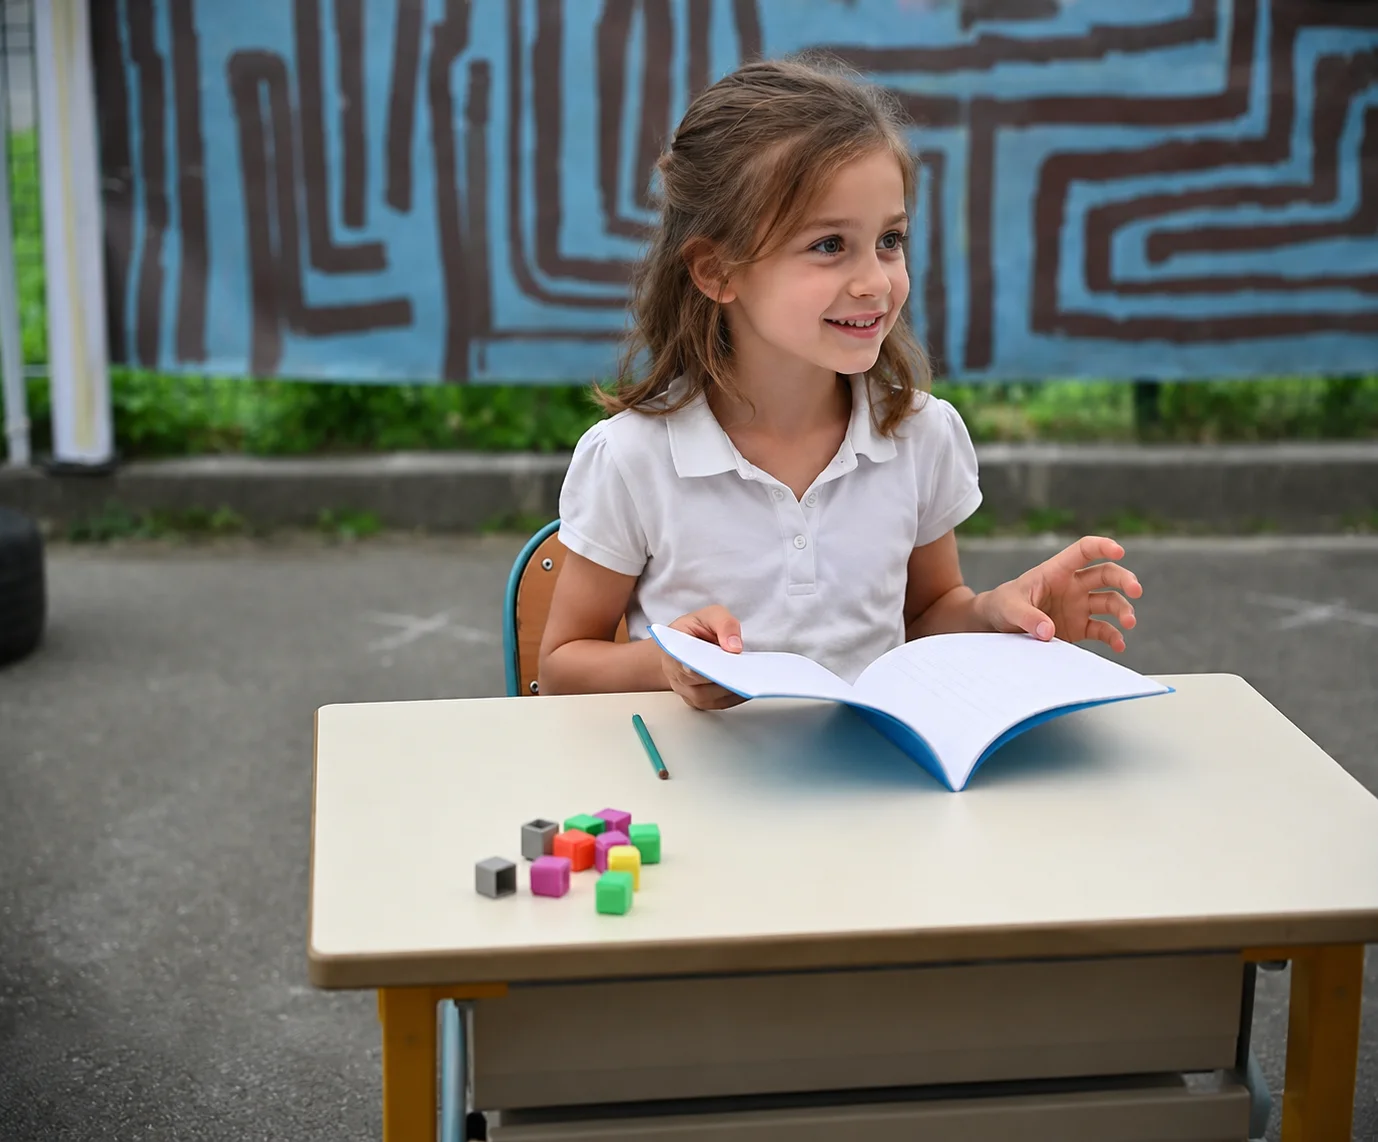
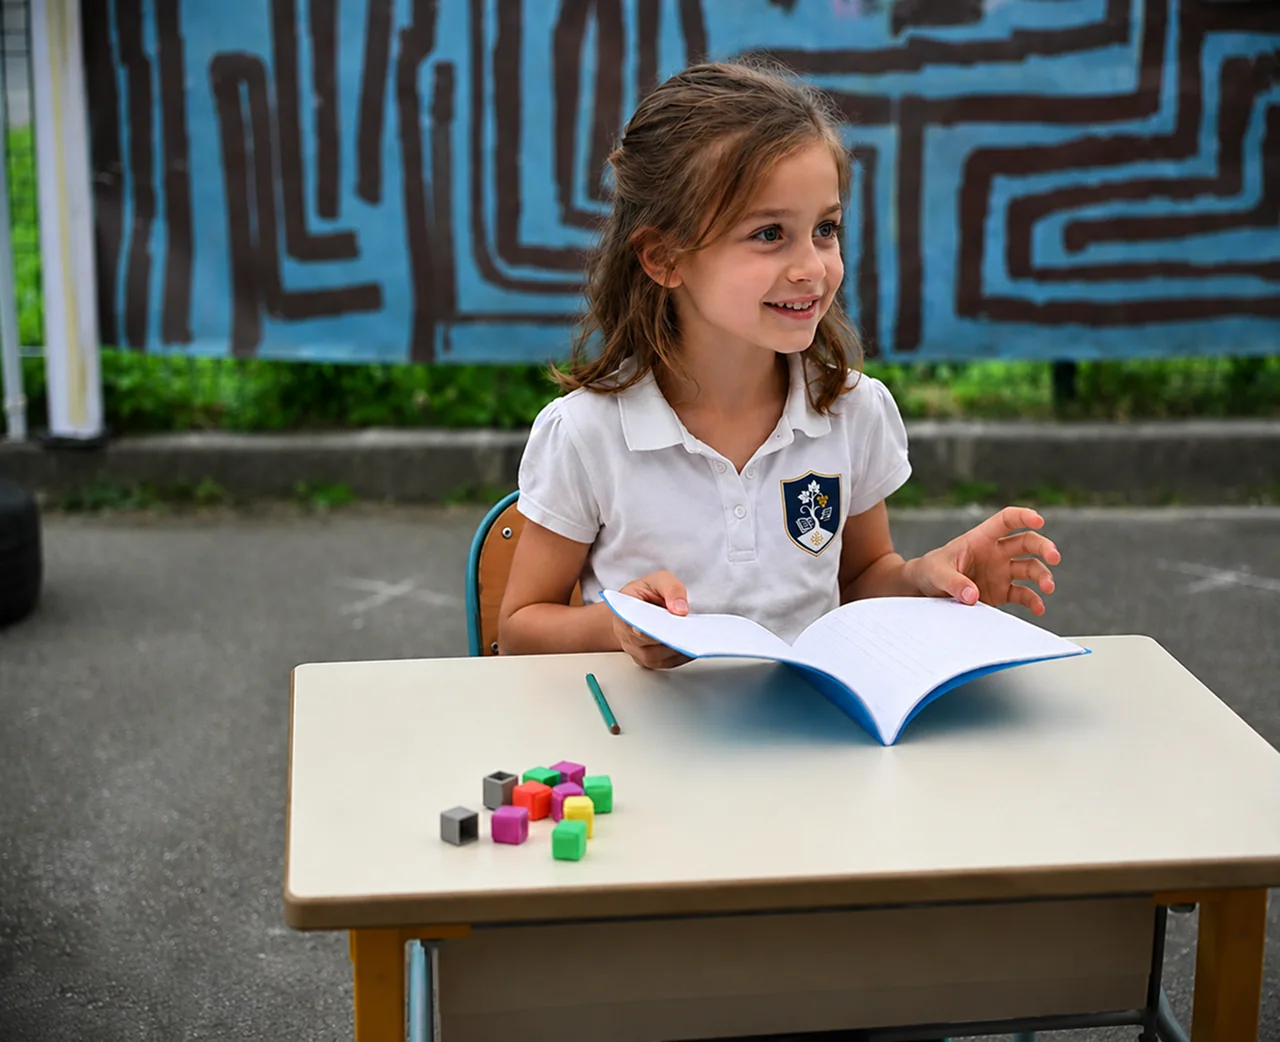
fix: update text and image after client review

diff --git a/src/app/contact/page.tsx b/src/app/contact/page.tsx
@@ -1,4 +1,3 @@
-// src/app/contact/page.tsx
 import { FaBus, FaTrain, FaCar, FaSquareParking } from "react-icons/fa6";
 import SarmentsText from "@/components/ui/sarmentsText/SarmentsText";
 import Separator from "@/components/ui/separator/Separator";
@@ -10,8 +9,13 @@ export default function ContactPage() {
     <section className="contact">
       <div className="contact_location">
         <SarmentsText format="title" className="contact_title">
-          Où nous trouver
+          Où nous trouver ?
         </SarmentsText>
+        <SarmentsText format="text" className="contact_intro">
+          Située au 20 avenue Didier Daurat dans le quartier de Montaudran à Toulouse, l&apos;école
+          Les Sarments est facilement accessible en transports et en voiture.
+        </SarmentsText>
+
         <div className="contact_location_content">
           <ul className="contact_access">
             <li className="contact_access_item">

diff --git a/src/components/layout/teaching-life/school/schoolUtils.ts b/src/components/layout/teaching-life/school/schoolUtils.ts
@@ -18,7 +18,7 @@ export const schoolTimelineMorning: TimelineProps = {
     {
       id: "3",
       time: "9h30 – 10h",
-      description: "Écriture, grammaire & conjugaison",
+      description: "Écriture, grammaire ou conjugaison",
       side: "left",
     },
     {
@@ -48,7 +48,7 @@ export const schoolTimelineAfternoon: TimelineProps = {
     {
       id: "2",
       time: "13h30 – 14h30",
-      description: "Ateliers, phonologie, sciences, histoire",
+      description: "Ateliers, phonologie, sciences ou histoire",
       badges: [{ label: "CP" }],
       side: "left",
     },

diff --git a/src/components/layout/teaching-life/pre-school/preSchoolUtils.ts b/src/components/layout/teaching-life/pre-school/preSchoolUtils.ts
@@ -36,7 +36,7 @@ export const preSchoolTimelineMorning: TimelineProps = {
     {
       id: "6",
       time: "11h – 11h30",
-      description: "Phonologie et manipulations mathématiques",
+      description: "Phonologie ou manipulations mathématiques",
       side: "right",
     },
   ],
@@ -82,7 +82,7 @@ export const preSchoolTimelineAfternoon: TimelineProps = {
     {
       id: "6",
       time: "16h – 16h30",
-      description: "Lecture, musique & ateliers",
+      description: "Lecture, musique ou ateliers",
       side: "left",
     },
     {

diff --git a/src/components/layout/teaching-life/school-base/SchoolBase.tsx b/src/components/layout/teaching-life/school-base/SchoolBase.tsx
@@ -40,8 +40,8 @@ export default function SchoolBase({
           {horaire}
         </SarmentsText>
         <SarmentsText format="text">
-          Temps du repas (panier repas fourni par les familles, surveillance par les enseignants) et
-          récréation
+          Temps du repas (panier-repas fourni par les familles), avec surveillance par les
+          institutrices, suivi d&apos;un temps de récréation.
         </SarmentsText>
       </div>
       <Timeline title={afternoon.title} steps={afternoon.steps} />

diff --git a/src/components/layout/school/school-values/SchoolValues.tsx b/src/components/layout/school/school-values/SchoolValues.tsx
@@ -7,7 +7,7 @@ const values = [
   {
     Icon: GiOlive,
     title: "Croissance intégrale",
-    description: "Chaque enfant est écouté, respecté et encouragé.",
+    description: "Chaque enfant déploie ses talents tout au long de sa scolarité.",
   },
   {
     Icon: GiMountainRoad,
